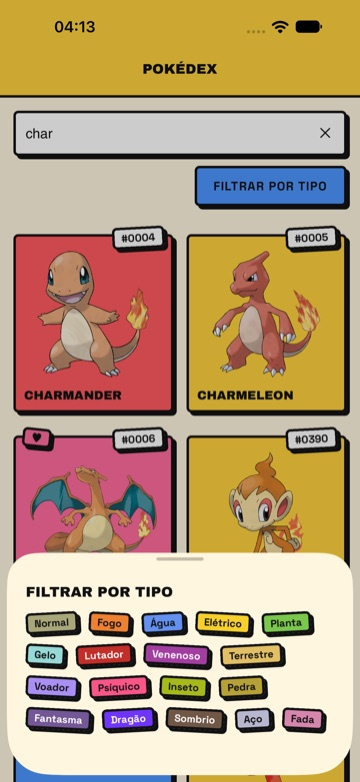
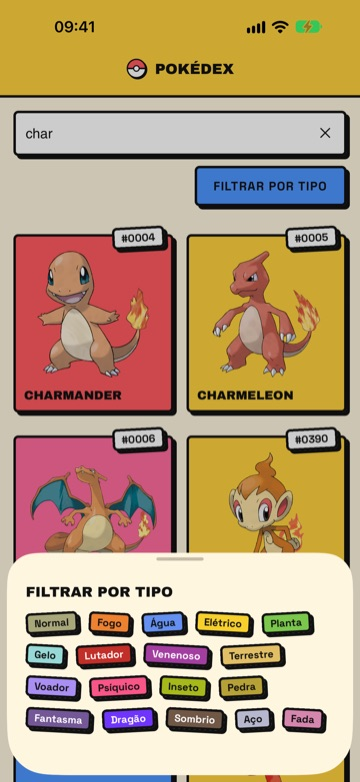
docs: README com capturas novas, tela sem internet e como gerar o APK
- refaz Pokédex, filtro por tipo e tema escuro com a logo no cabeçalho
- adiciona a captura sem internet (galeria com 9 telas)
- seção para gerar o APK com o EAS e descrição atualizada das pastas

diff --git a/README.md b/README.md
@@ -24,12 +24,15 @@ Bordas grossas, sombras duras e cores chapadas, com os dados da [PokéAPI](https
     <td align="center"><img src="docs/screenshots/pokedex.jpg" width="170" alt="Grade da Pokédex"><br><sub><b>Pokédex</b></sub></td>
     <td align="center"><img src="docs/screenshots/filtro-por-tipo.jpg" width="170" alt="Busca com a folha de tipos aberta"><br><sub><b>Busca e filtro por tipo</b></sub></td>
     <td align="center"><img src="docs/screenshots/detalhes.jpg" width="170" alt="Detalhes do Pikachu"><br><sub><b>Detalhes</b></sub></td>
-    <td align="center"><img src="docs/screenshots/formas.jpg" width="170" alt="Formas do Charizard: Mega X, Mega Y e Gigantamax"><br><sub><b>Formas</b></sub></td>
   </tr>
   <tr>
+    <td align="center"><img src="docs/screenshots/formas.jpg" width="170" alt="Formas do Charizard: Mega X, Mega Y e Gigantamax"><br><sub><b>Formas</b></sub></td>
     <td align="center"><img src="docs/screenshots/evolucoes.jpg" width="170" alt="Linha evolutiva do Eevee com os itens em português"><br><sub><b>Linha evolutiva</b></sub></td>
     <td align="center"><img src="docs/screenshots/comparacao.jpg" width="170" alt="Comparação entre Vaporeon e Jolteon"><br><sub><b>Comparar status</b></sub></td>
+  </tr>
+  <tr>
     <td align="center"><img src="docs/screenshots/tema-escuro.jpg" width="170" alt="Pokédex no tema escuro"><br><sub><b>Tema escuro</b></sub></td>
+    <td align="center"><img src="docs/screenshots/sem-internet.jpg" width="170" alt="Pokédex sem internet, com o aviso acima das abas"><br><sub><b>Sem internet</b></sub></td>
     <td align="center"><img src="docs/screenshots/splash.jpg" width="170" alt="Splash amarela com a Poké Bola"><br><sub><b>Splash</b></sub></td>
   </tr>
 </table>
@@ -71,6 +74,16 @@ No terminal do Expo, aperte `i` para o simulador do iOS ou `a` para o emulador A
 
 🔍 **Reactotron (opcional):** abra o app de desktop [Reactotron](https://github.com/infinitered/reactotron/releases) antes do `yarn expo start` para ver as actions do Redux, o estado da store, as requisições à PokéAPI e os `console.log`. Ele só é carregado em desenvolvimento e se conecta sozinho, no simulador, no emulador ou no celular.
 
+## 📦 Gerar um APK
+
+O build usa o [EAS](https://docs.expo.dev/build/introduction/), configurado em `eas.json`. O perfil `preview` gera um **APK** para instalar direto no emulador ou no celular (o `production` gera o `.aab` da Play Store). Com `--local`, o build roda na sua máquina:
+
+```bash
+npx eas-cli@latest build -p android --profile preview --local
+```
+
+Para instalar no emulador, arraste o `.apk` para a janela dele ou use `adb install arquivo.apk`. O identificador do app é `com.fabio.dev.pokeapp`, no Android e no iOS. Os arquivos gerados (`.apk`, `.aab`, `.ipa`) ficam fora do git.
+
 ## ✅ Antes de terminar uma mudança
 
 ```bash
@@ -83,7 +96,7 @@ yarn test          # testes unitários (Jest, cerca de 1 s)
 
 **Unitários (Jest):** ficam em [`__tests__/`](__tests__) e cobrem as regras sem tela: nomes e rótulos das formas, busca, linha evolutiva, traduções, favoritos e a cópia offline das respostas. Rodam em cerca de 1 segundo com `yarn test`.
 
-**Ponta a ponta (Maestro):** usam o [Maestro](https://maestro.dev/) e ficam em [`.maestro/`](.maestro/README.md). Lá também está o script 🎬 que grava o vídeo de demonstração no simulador do iOS.
+**Ponta a ponta (Maestro):** usam o [Maestro](https://maestro.dev/) e ficam em [`.maestro/`](.maestro/README.md). Lá também estão o fluxo 📴 sem internet (`.maestro/offline/`, que roda à parte) e o script 🎬 que grava o vídeo de demonstração no simulador do iOS.
 
 ```bash
 maestro test -e APP_ID=host.exp.Exponent -e EXPO_URL=exp://127.0.0.1:8081 .maestro
@@ -100,9 +113,9 @@ src/
 ├─ components/     peças visuais (BrutalBox, PokemonCard, SearchBar…)
 ├─ constants/      tokens do estilo e cores dos tipos
 ├─ features/
-│  ├─ pokemon/     cliente da PokéAPI, tipos e funções de apoio
+│  ├─ pokemon/     cliente da PokéAPI, cópia offline das respostas, traduções e funções de apoio
 │  └─ favorites/   slice e persistência dos favoritos
-├─ hooks/
+├─ hooks/          tema, cabeçalho e conexão com a internet
 └─ store/          store do Redux, hooks tipados e Reactotron
 ```
 
